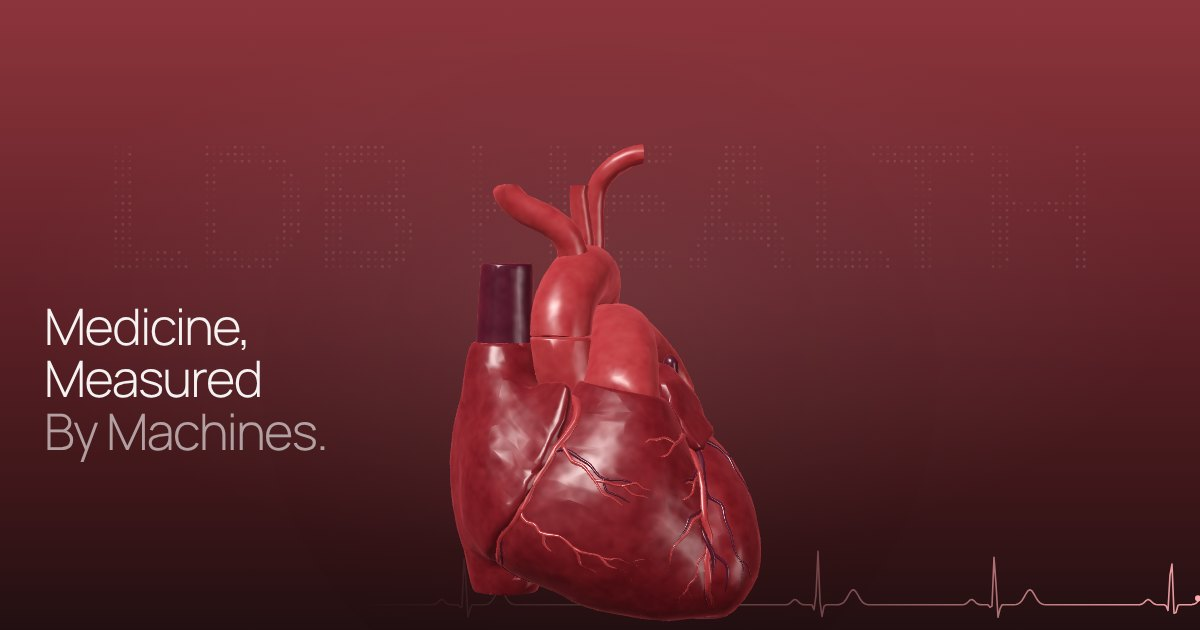
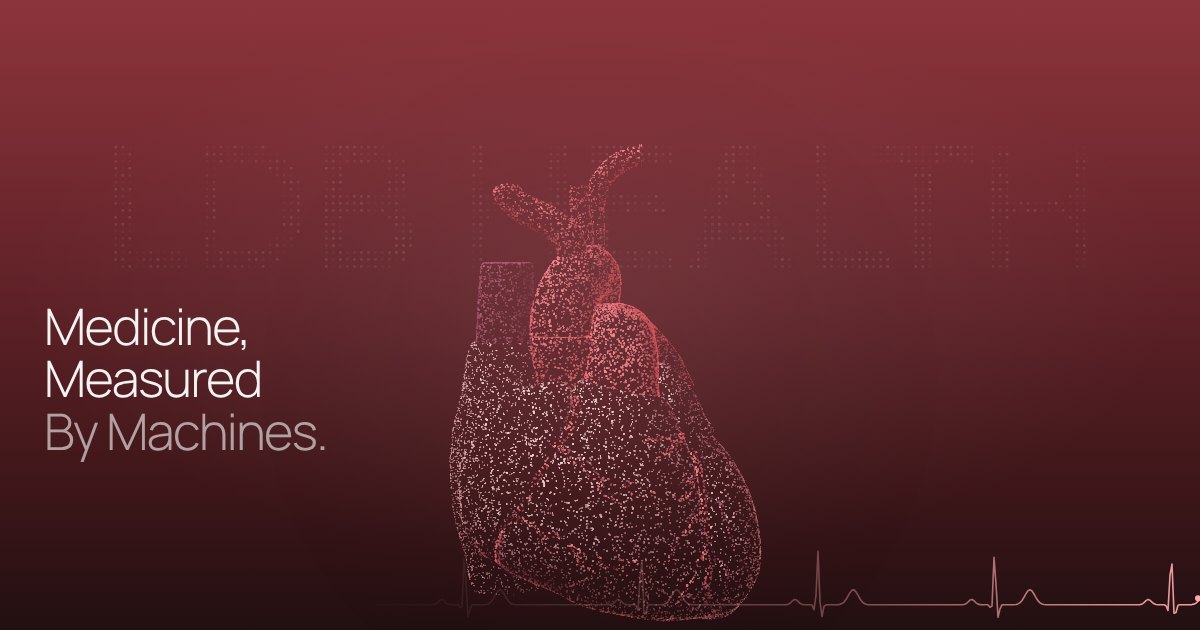
Hero heart as lit dots on the visible surface (depth pre-pass); solid model kept behind ?heart=solid
Claude-Session: https://claude.ai/code/session_01HR3LbNEqqh1NJpsKSu2JUT

Changed region(s): [[0.37, 0.2111, 0.6475, 0.9952]]

diff --git a/assets/heart3d.js b/assets/heart3d.js
@@ -1,4 +1,4 @@
-/* Hero: an anatomical heart, rendered with WebGL.
+/* Hero: an anatomical heart, rendered with WebGL as a cloud of dots (default) or as a solid model (?heart=solid).
    Geometry: BodyParts3D 4.0, © The Database Center for Life Science, CC BY 4.0
    (https://dbarchive.biosciencedbc.jp/en/bodyparts3d/). Adapted: heart walls, coronary vessels,
    aorta, pulmonary vessels and venae cavae extracted, cut where they leave the heart, merged and
@@ -15,7 +15,7 @@
 
   fetch(cv.dataset.src).then(function (r) { if (!r.ok) throw new Error('model'); return r.body.pipeThrough(new DecompressionStream('gzip')); })
     .then(function (s) { return new Response(s).arrayBuffer(); })
-    .then(function (buf) { parse(buf); if (gl) setup(); else fallback(); })
+    .then(function (buf) { parse(buf); if (!gl) fallback(); else setup(/[?&]heart=solid/.test(location.search) ? 'solid' : 'dots'); })
     .catch(function () { window.ldbHeartFailed = true; });
 
   var M = null;
@@ -71,20 +71,86 @@
     '  gl_FragColor = vec4(pow(col, vec3(0.92)), 1.0);',
     '}'].join('\n');
 
-  var prog, U = {}, W = 0, H = 0, dpr = Math.min(2, window.devicePixelRatio || 1), mobile = false;
+
+  // ---------- dots ----------
+  function sampleDots(count) {
+    var n = M.ni / 3, area = new Float32Array(n), tot = 0, P = M.pos, B0 = M.bmin, B1 = M.bmax;
+    function v(i, k) { return B0[k] + P[i * 3 + k] / 65535 * (B1[k] - B0[k]); }
+    for (var t = 0; t < n; t++) {
+      var a = M.idx[t * 3], b = M.idx[t * 3 + 1], c = M.idx[t * 3 + 2];
+      var ux = v(b, 0) - v(a, 0), uy = v(b, 1) - v(a, 1), uz = v(b, 2) - v(a, 2), wx = v(c, 0) - v(a, 0), wy = v(c, 1) - v(a, 1), wz = v(c, 2) - v(a, 2);
+      var cx = uy * wz - uz * wy, cy = uz * wx - ux * wz, cz = ux * wy - uy * wx, ar = Math.sqrt(cx * cx + cy * cy + cz * cz) / 2;
+      ar *= M.grp[a] === 0 ? 1 : 1.8;   // vessels get a little extra so the coronary tree stays visible
+      tot += ar; area[t] = tot;
+    }
+    var pos = new Float32Array(count * 3), nrm = new Float32Array(count * 3), grp = new Float32Array(count), rnd = new Float32Array(count), seed = 12345;
+    function r() { seed = (seed * 16807) % 2147483647; return seed / 2147483647; }
+    for (var i = 0; i < count; i++) {
+      var x = r() * tot, lo = 0, hi = n - 1; while (lo < hi) { var m = (lo + hi) >> 1; if (area[m] < x) lo = m + 1; else hi = m; }
+      var A = M.idx[lo * 3], Bv = M.idx[lo * 3 + 1], Cv = M.idx[lo * 3 + 2], u = r(), w = r(); if (u + w > 1) { u = 1 - u; w = 1 - w; }
+      for (var k = 0; k < 3; k++) {
+        pos[i * 3 + k] = v(A, k) + u * (v(Bv, k) - v(A, k)) + w * (v(Cv, k) - v(A, k));
+        nrm[i * 3 + k] = (M.nrm[A * 3 + k] + M.nrm[Bv * 3 + k] + M.nrm[Cv * 3 + k]) / 381;
+      }
+      grp[i] = M.grp[A]; rnd[i] = r();
+    }
+    return { n: count, pos: pos, nrm: nrm, grp: grp, rnd: rnd };
+  }
+  var DVS = [
+    'attribute vec3 aPos; attribute vec3 aNrm; attribute float aGrp; attribute float aRnd;',
+    'uniform mat3 uRot; uniform float uBeat; uniform float uAspect; uniform float uScale; uniform float uOffY; uniform float uPx; uniform float uTime;',
+    'varying float vF; varying float vG; varying float vD; varying float vT; varying float vL;',
+    'void main() {',
+    '  vec3 p = aPos;',
+    '  float w = aGrp < 0.5 ? (p.y < 0.05 ? 1.0 : 0.55) : 0.35;',
+    '  vec3 c = vec3(0.04, -0.05, 0.0); p = c + (p - c) * (1.0 + uBeat * w);',
+    '  vec3 r = uRot * p; vec3 n = normalize(uRot * aNrm);',
+    '  vL = max(0.0, dot(n, normalize(vec3(-0.55, 0.65, 0.75)))) * 0.85 + max(0.0, dot(n, normalize(vec3(0.8, -0.2, 0.35)))) * 0.25;',
+    '  vF = n.z; vG = aGrp; vD = clamp(r.z + 0.5, 0.0, 1.0); vT = 0.8 + 0.2 * sin(uTime * 2.0 + aRnd * 40.0);',
+    '  float z = 2.4 - r.z * 0.55;',
+    '  gl_Position = vec4(r.x * uScale * 2.4 / z / uAspect, r.y * uScale * 2.4 / z + uOffY, -r.z * 0.3, 1.0);',
+    '  gl_PointSize = uPx * (aGrp < 0.5 ? 1.0 : 1.15) * (0.75 + 0.6 * vD) * (2.4 / z);',
+    '}'].join('\n');
+  var DFS = [
+    'precision mediump float;',
+    'varying float vF; varying float vG; varying float vD; varying float vT; varying float vL;',
+    'uniform float uLight;',
+    'void main() {',
+    '  vec2 q = gl_PointCoord - 0.5; float d = dot(q, q); if (d > 0.25) discard;',
+    '  float front = clamp(0.15 + vL, 0.0, 1.0);',          // dots facing you are bright, the far side dim
+    '  vec3 darkC = vG < 0.5 ? mix(vec3(0.62, 0.20, 0.24), vec3(1.0, 0.86, 0.86), front)',
+    '              : vG < 1.5 ? mix(vec3(0.75, 0.22, 0.26), vec3(1.0, 0.55, 0.58), front)',
+    '              : mix(vec3(0.42, 0.14, 0.22), vec3(0.78, 0.45, 0.55), front);',
+    '  vec3 lightC = vG < 0.5 ? mix(vec3(0.80, 0.55, 0.57), vec3(0.50, 0.08, 0.13), front)',
+    '              : vG < 1.5 ? mix(vec3(0.85, 0.45, 0.48), vec3(0.72, 0.10, 0.16), front)',
+    '              : mix(vec3(0.70, 0.52, 0.58), vec3(0.36, 0.08, 0.16), front);',
+    '  vec3 col = mix(darkC, lightC, uLight);',
+    '  float a = (0.3 + 0.7 * front) * (0.7 + 0.3 * vD) * vT * (1.0 - smoothstep(0.12, 0.25, d));',
+    '  gl_FragColor = vec4(col * a, a);',
+    '}'].join('\n');
+
+  // the invisible depth pass: the solid heart hides the dots on its far side and inside the chambers
+  var DEPTH_FS = 'precision mediump float; void main() { gl_FragColor = vec4(0.0); }';
+
+  var mode, progMesh, progDots, U = {}, UD = {}, W = 0, H = 0, dpr = Math.min(2, window.devicePixelRatio || 1), mobile = false, B = {}, D = null;
   function sh(type, src) { var s = gl.createShader(type); gl.shaderSource(s, src); gl.compileShader(s); if (!gl.getShaderParameter(s, gl.COMPILE_STATUS)) throw new Error(gl.getShaderInfoLog(s)); return s; }
-  function setup() {
-    try {
-      prog = gl.createProgram(); gl.attachShader(prog, sh(gl.VERTEX_SHADER, VS)); gl.attachShader(prog, sh(gl.FRAGMENT_SHADER, FS)); gl.linkProgram(prog);
-      if (!gl.getProgramParameter(prog, gl.LINK_STATUS)) throw new Error('link');
-    } catch (e) { gl = null; fallback(); return; }
-    gl.useProgram(prog);
-    function attr(name, data, size, type, norm) { var b = gl.createBuffer(); gl.bindBuffer(gl.ARRAY_BUFFER, b); gl.bufferData(gl.ARRAY_BUFFER, data, gl.STATIC_DRAW); var l = gl.getAttribLocation(prog, name); gl.enableVertexAttribArray(l); gl.vertexAttribPointer(l, size, type, norm, 0, 0); }
-    attr('aPos', M.pos, 3, gl.UNSIGNED_SHORT, true); attr('aNrm', M.nrm, 3, gl.BYTE, true); attr('aGrp', M.grp, 1, gl.UNSIGNED_BYTE, false);
-    var ib = gl.createBuffer(); gl.bindBuffer(gl.ELEMENT_ARRAY_BUFFER, ib); gl.bufferData(gl.ELEMENT_ARRAY_BUFFER, M.idx, gl.STATIC_DRAW);
-    ['uMin', 'uMax', 'uRot', 'uBeat', 'uAspect', 'uScale', 'uOffY', 'uLight', 'uTime'].forEach(function (k) { U[k] = gl.getUniformLocation(prog, k); });
-    gl.uniform3fv(U.uMin, M.bmin); gl.uniform3fv(U.uMax, M.bmax);
-    gl.enable(gl.DEPTH_TEST); gl.depthFunc(gl.LESS);
+  function program(vs, fs) { var p = gl.createProgram(); gl.attachShader(p, sh(gl.VERTEX_SHADER, vs)); gl.attachShader(p, sh(gl.FRAGMENT_SHADER, fs)); gl.linkProgram(p); if (!gl.getProgramParameter(p, gl.LINK_STATUS)) throw new Error('link'); return p; }
+  function buf(data) { var b = gl.createBuffer(); gl.bindBuffer(gl.ARRAY_BUFFER, b); gl.bufferData(gl.ARRAY_BUFFER, data, gl.STATIC_DRAW); return b; }
+  function bindAttr(p, name, b, size, type, norm) { var l = gl.getAttribLocation(p, name); if (l < 0) return; gl.bindBuffer(gl.ARRAY_BUFFER, b); gl.enableVertexAttribArray(l); gl.vertexAttribPointer(l, size, type, norm, 0, 0); }
+  function uniforms(p, names, into) { names.forEach(function (k) { into[k] = gl.getUniformLocation(p, k); }); }
+
+  function setup(m) {
+    mode = m;
+    try { progMesh = program(VS, mode === 'solid' ? FS : DEPTH_FS); if (mode === 'dots') progDots = program(DVS, DFS); }
+    catch (e) { gl = null; fallback(); return; }
+    B.pos = buf(M.pos); B.nrm = buf(M.nrm); B.grp = buf(M.grp);
+    B.idx = gl.createBuffer(); gl.bindBuffer(gl.ELEMENT_ARRAY_BUFFER, B.idx); gl.bufferData(gl.ELEMENT_ARRAY_BUFFER, M.idx, gl.STATIC_DRAW);
+    uniforms(progMesh, ['uMin', 'uMax', 'uRot', 'uBeat', 'uAspect', 'uScale', 'uOffY', 'uLight', 'uTime'], U);
+    if (mode === 'dots') {
+      D = sampleDots(innerWidth < 700 ? 38000 : 65000);
+      B.dpos = buf(D.pos); B.dnrm = buf(D.nrm); B.dgrp = buf(D.grp); B.drnd = buf(D.rnd);
+      uniforms(progDots, ['uRot', 'uBeat', 'uAspect', 'uScale', 'uOffY', 'uLight', 'uTime', 'uPx'], UD);
+    }
     resize(); cv.classList.add('on'); start();
   }
   function resize() {
@@ -96,21 +162,38 @@
   var mx = 0, my = 0, tx = 0, ty = 0, t0 = performance.now(), raf = 0, visible = true;
   addEventListener('pointermove', function (e) { tx = e.clientX / innerWidth - .5; ty = e.clientY / innerHeight - .5; }, { passive: true });
   if ('IntersectionObserver' in window) new IntersectionObserver(function (es) { visible = es[0].isIntersecting; if (visible) req(); }).observe(cv);
-  function req() { if (!raf && gl && prog && M) raf = requestAnimationFrame(frame); }
+  function req() { if (!raf && gl && progMesh && M) raf = requestAnimationFrame(frame); }
   function start() { req(); window.addEventListener('themechange', req); }
+  function common(u, t, phase, R, lt) {
+    gl.uniformMatrix3fv(u.uRot, false, R); gl.uniform1f(u.uBeat, window.ldbBeat(phase)); gl.uniform1f(u.uAspect, W / H);
+    gl.uniform1f(u.uScale, mobile ? 1.4 : Math.min(1.3, 1.3 * (W / H) / 1.5)); gl.uniform1f(u.uOffY, mobile ? -0.06 : -0.05);
+    gl.uniform1f(u.uLight, lt); gl.uniform1f(u.uTime, t);
+  }
   function frame(now) {
     raf = 0;
-    var t = reduced ? 1.3 : (now - t0) / 1000, phase = (t / PERIOD) % 1;
+    var t = reduced ? 1.3 : (now - t0) / 1000, phase = (t / PERIOD) % 1, lt = document.documentElement.classList.contains('lt') ? 1 : 0;
     mx += (tx - mx) * 0.05; my += (ty - my) * 0.05;
-    var ay = Math.sin(t * 0.4) * 0.5 + mx * 0.9 - 0.12, ax = 0.06 + my * 0.35, az = 0;
+    // anatomical view from the front; a slow sway shows its depth without turning it side-on
+    var ay = Math.sin(t * 0.4) * 0.45 + mx * 0.9 - 0.1, ax = 0.06 + my * 0.35;
     var cy = Math.cos(ay), sy = Math.sin(ay), cx = Math.cos(ax), sx = Math.sin(ax);
-    // rotation: yaw then pitch (column-major for GLSL)
-    var R = [cy, sx * sy, -cx * sy, 0, cx, sx, sy, -sx * cy, cx * cy];
+    var R = [cy, sx * sy, -cx * sy, 0, cx, sx, sy, -sx * cy, cx * cy];   // pitch after yaw, column-major
     gl.viewport(0, 0, cv.width, cv.height); gl.clearColor(0, 0, 0, 0); gl.clear(gl.COLOR_BUFFER_BIT | gl.DEPTH_BUFFER_BIT);
-    // place the heart: centred, a bit lower on desktop; size from the shorter side
-    gl.uniformMatrix3fv(U.uRot, false, R); gl.uniform1f(U.uBeat, window.ldbBeat(phase)); gl.uniform1f(U.uAspect, W / H);
-    gl.uniform1f(U.uScale, mobile ? 1.4 : Math.min(1.3, 1.3 * (W / H) / 1.5)); gl.uniform1f(U.uOffY, mobile ? -0.06 : -0.05); gl.uniform1f(U.uLight, document.documentElement.classList.contains('lt') ? 1 : 0); gl.uniform1f(U.uTime, t);
+    gl.enable(gl.DEPTH_TEST); gl.depthFunc(gl.LEQUAL); gl.depthMask(true); gl.disable(gl.BLEND);
+    // the mesh: lit in solid mode, depth only in dots mode (pushed back a touch so surface dots win)
+    gl.useProgram(progMesh);
+    bindAttr(progMesh, 'aPos', B.pos, 3, gl.UNSIGNED_SHORT, true); bindAttr(progMesh, 'aNrm', B.nrm, 3, gl.BYTE, true); bindAttr(progMesh, 'aGrp', B.grp, 1, gl.UNSIGNED_BYTE, false);
+    gl.uniform3fv(U.uMin, M.bmin); gl.uniform3fv(U.uMax, M.bmax); common(U, t, phase, R, lt);
+    gl.bindBuffer(gl.ELEMENT_ARRAY_BUFFER, B.idx);
+    if (mode === 'dots') { gl.colorMask(false, false, false, false); gl.enable(gl.POLYGON_OFFSET_FILL); gl.polygonOffset(2, 4); }
     gl.drawElements(gl.TRIANGLES, M.ni, gl.UNSIGNED_SHORT, 0);
+    gl.colorMask(true, true, true, true); gl.disable(gl.POLYGON_OFFSET_FILL);
+    if (mode === 'dots') {
+      gl.useProgram(progDots); [3, 4, 5, 6].forEach(function () {});
+      bindAttr(progDots, 'aPos', B.dpos, 3, gl.FLOAT, false); bindAttr(progDots, 'aNrm', B.dnrm, 3, gl.FLOAT, false); bindAttr(progDots, 'aGrp', B.dgrp, 1, gl.FLOAT, false); bindAttr(progDots, 'aRnd', B.drnd, 1, gl.FLOAT, false);
+      common(UD, t, phase, R, lt); gl.uniform1f(UD.uPx, (mobile ? 1.7 : 1.9) * dpr * Math.min(1.25, Math.max(0.8, H / 800)));
+      gl.depthMask(false); gl.enable(gl.BLEND); gl.blendFunc(gl.ONE, gl.ONE_MINUS_SRC_ALPHA);
+      gl.drawArrays(gl.POINTS, 0, D.n);
+    }
     if (!reduced && visible) req();
   }
 

diff --git a/index.html b/index.html
@@ -105,7 +105,7 @@
   <div>
     <p>The same questions run through finance and medicine: how much to trust a model, what an error costs, and who carries that cost. This site works through them for healthcare as part of the Applied AI minor at Bryant University.</p>
     <p>It is a sister site to the <a href="/lab/" style="color:var(--ink);text-decoration:underline;text-underline-offset:3px">LDB Lab</a>, which covers how machine learning works and how it is used in finance. Everything here runs in your browser; nothing you enter is sent anywhere.</p>
-    <p style="font-size:13.5px">The heart at the top of the page is real anatomy: the heart walls, coronary vessels, aorta and pulmonary vessels from <a href="https://dbarchive.biosciencedbc.jp/en/bodyparts3d/" rel="noopener" style="color:var(--ink);text-decoration:underline;text-underline-offset:3px">BodyParts3D</a>, © The Database Center for Life Science, used under <a href="https://creativecommons.org/licenses/by/4.0/" rel="noopener" style="color:var(--ink);text-decoration:underline;text-underline-offset:3px">CC BY 4.0</a> and adapted (parts extracted, vessels trimmed, geometry merged).</p>
+    <p style="font-size:13.5px">The heart at the top of the page is real anatomy, drawn as dots: the heart walls, coronary vessels, aorta and pulmonary vessels from <a href="https://dbarchive.biosciencedbc.jp/en/bodyparts3d/" rel="noopener" style="color:var(--ink);text-decoration:underline;text-underline-offset:3px">BodyParts3D</a>, © The Database Center for Life Science, used under <a href="https://creativecommons.org/licenses/by/4.0/" rel="noopener" style="color:var(--ink);text-decoration:underline;text-underline-offset:3px">CC BY 4.0</a> and adapted (parts extracted, vessels trimmed, geometry merged).</p>
     <div class="note"><b>Educational only.</b> These tools use made-up or illustrative numbers to explain ideas. They are not medical advice and say nothing about any real person's health.</div>
   </div>
 </div></section>
